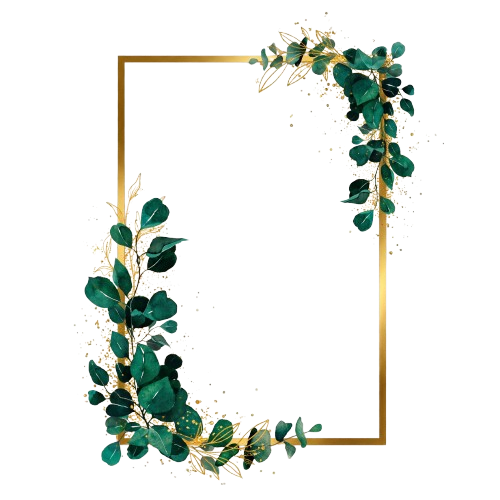
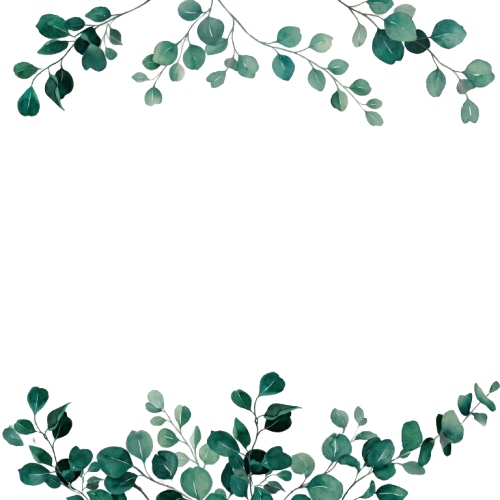
Actualiza marco-floral.png con diseño ligero y ajusta estilos proporcionales

Changed region(s): [[0.0, 0.0, 1.0, 1.0]]

diff --git a/src/styles/main.css b/src/styles/main.css
@@ -225,15 +225,43 @@ body {
 }
 
 .card {
+    position: relative;
     background-color: rgba(255, 255, 255, 0.93);
     backdrop-filter: blur(8px);
     border-radius: 20px;
-    padding: 40px 20px;
+    padding: 105px 25px;
     box-shadow: 0 15px 35px rgba(0,0,0,0.2);
     border: 1px solid rgba(255,255,255,0.5);
     text-align: center;
 }
-
+.card::before {
+    content: '';
+    position: absolute;
+    top: 0;
+    left: 0;
+    right: 0;
+    aspect-ratio: 500 / 138;
+    background-image: url('/assets/images/marco-floral.png');
+    background-position: top center;
+    background-repeat: no-repeat;
+    background-size: 100% auto;
+    pointer-events: none;
+    z-index: 2;
+}
+.card::after {
+    content: '';
+    position: absolute;
+    bottom: 0;
+    left: 0;
+    right: 0;
+    aspect-ratio: 500 / 130;
+    background-image: url('/assets/images/marco-floral.png');
+    background-position: bottom center;
+    background-repeat: no-repeat;
+    background-size: 100% auto;
+    pointer-events: none;
+    z-index: 2;
+}
 .card-gris { background-color: rgba(245, 245, 245, 0.95); }
 
 h2 { 